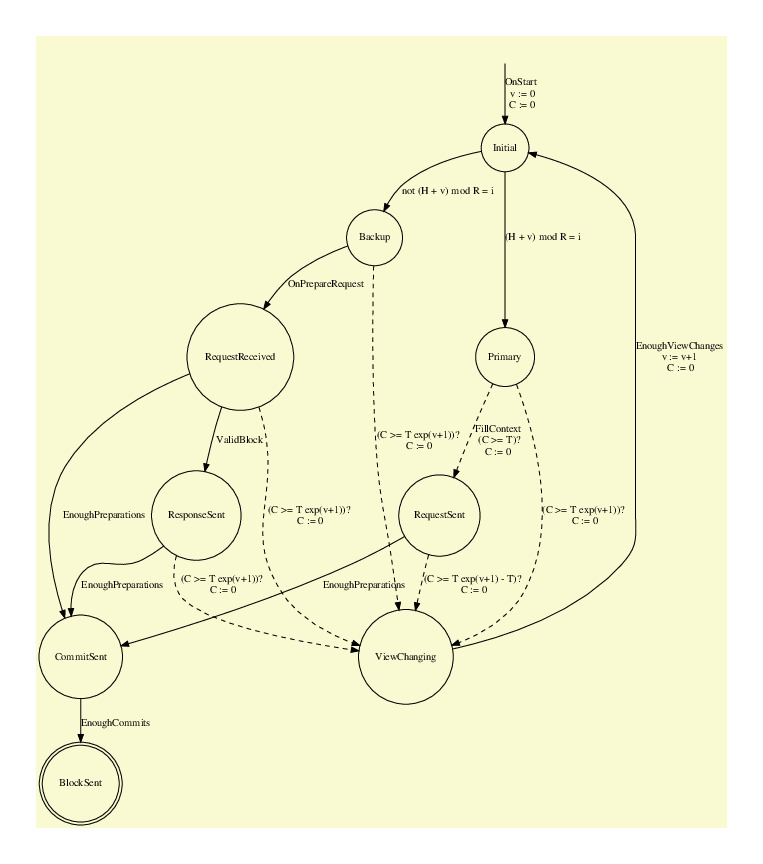
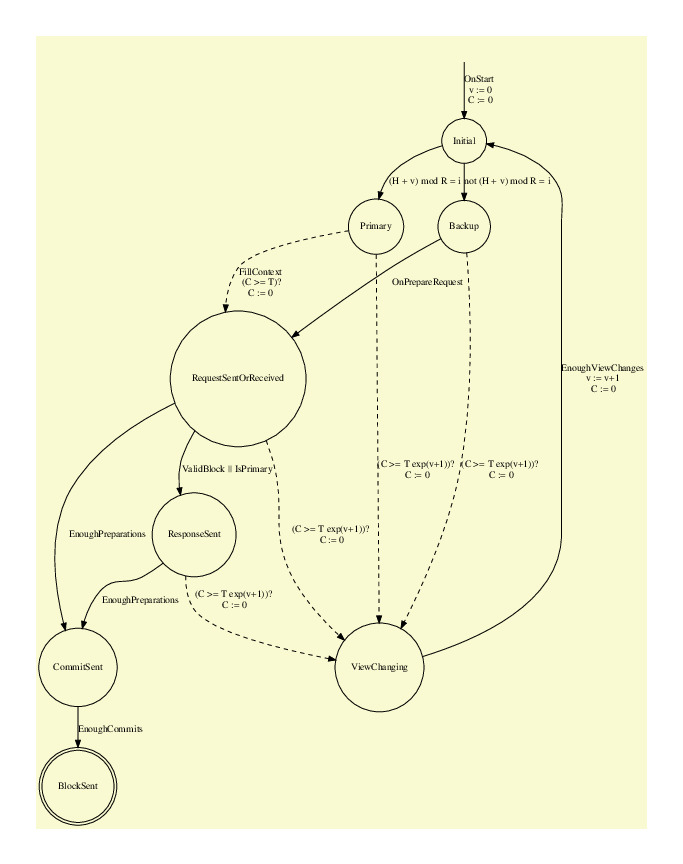
unified RequestSentOrReceived

diff --git a/sections/08_dBFT.md b/sections/08_dBFT.md
@@ -90,7 +90,7 @@ dBFT states are the following:
 
 * ~~SignatureSent : true if signature has been sent, false otherwise~~ (removed on dBFT 2.0 because of extra commit phase carrying signatures)
 
-* RequestSentOrReceived : true if a valid signature of Primary has been received, false otherwise.
+* RequestSentOrReceived : true if a valid signature of Primary has been received, false otherwise (introduced on dBFT 2.0).
 
 * ResponseSent : true if block header confirmation has been sent (such block pre-confirmation was only introduced on dBFT 2.0)
 
@@ -124,19 +124,17 @@ digraph dBFT {
   Empty -> Initial [label = "OnStart\n v := 0\n C := 0"];
 	Initial -> Primary [ label = "(H + v) mod R = i" ];
 	Initial -> Backup [ label = "not (H + v) mod R = i" ];
-	Primary -> RequestSent [ label = "FillContext\n (C >= T)?\nC := 0", style="dashed" ];
-	Backup -> RequestReceived [ label = "OnPrepareRequest" ];
-	RequestReceived -> ResponseSent [ label = "ValidBlock" ];
+	Primary -> RequestSentOrReceived [ label = "FillContext\n (C >= T)?\nC := 0", style="dashed" ];
+	Backup -> RequestSentOrReceived [ label = "OnPrepareRequest" ];
+	RequestSentOrReceived -> ResponseSent [ label = "ValidBlock || IsPrimary" ];
 	ResponseSent -> CommitSent [ label = "EnoughPreparations" ];
-	RequestSent -> CommitSent [ label = "EnoughPreparations" ];
-	RequestReceived -> CommitSent [ label = "EnoughPreparations" ];
+	RequestSentOrReceived -> CommitSent [ label = "EnoughPreparations" ];
 	CommitSent -> BlockSent [ label = "EnoughCommits" ];
 	ViewChanging -> Initial [ label = "EnoughViewChanges\n v := v+1 \n C := 0" ];
-  RequestReceived -> ViewChanging [ label = "(C >= T exp(v+1))?\n C := 0", style="dashed" ];
+  RequestSentOrReceived -> ViewChanging [ label = "(C >= T exp(v+1))?\n C := 0", style="dashed" ];
   Primary -> ViewChanging [ label = "(C >= T exp(v+1))?\n C := 0", style="dashed" ];
 	Backup -> ViewChanging [ label = "(C >= T exp(v+1))?\n C := 0", style="dashed" ];
 	ResponseSent -> ViewChanging [ label = "(C >= T exp(v+1))?\n C := 0", style="dashed" ];
-	RequestSent -> ViewChanging [ label = "(C >= T exp(v+1) - T)?\n C := 0", style="dashed" ];  
 }
 ~~~~~~~~~~~~
 
